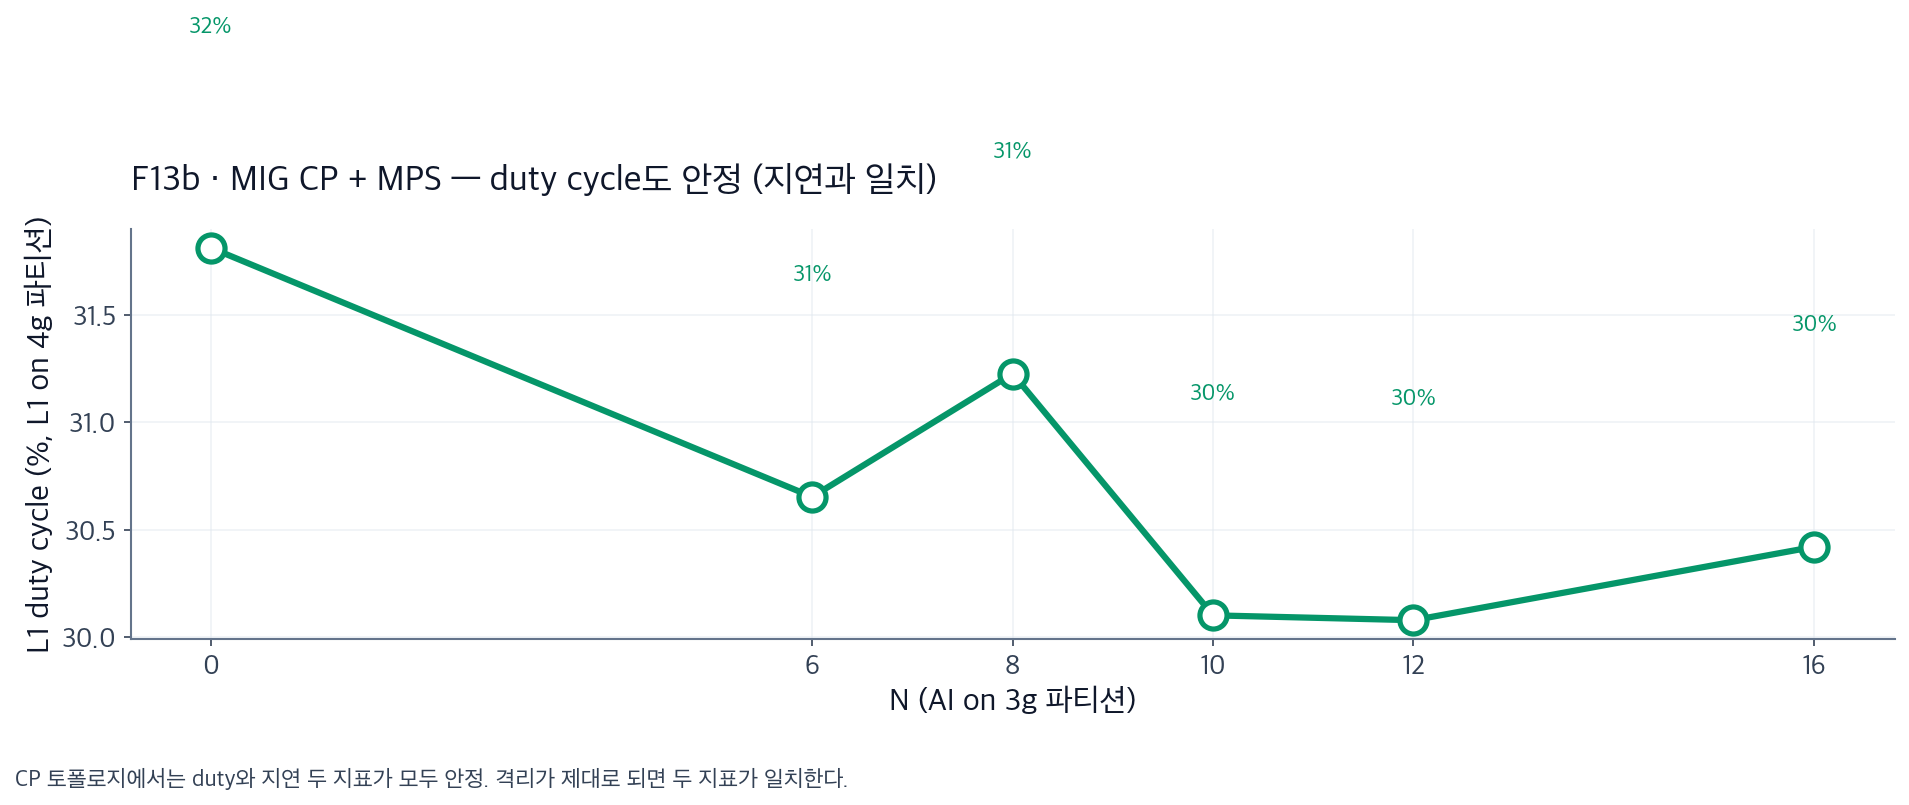
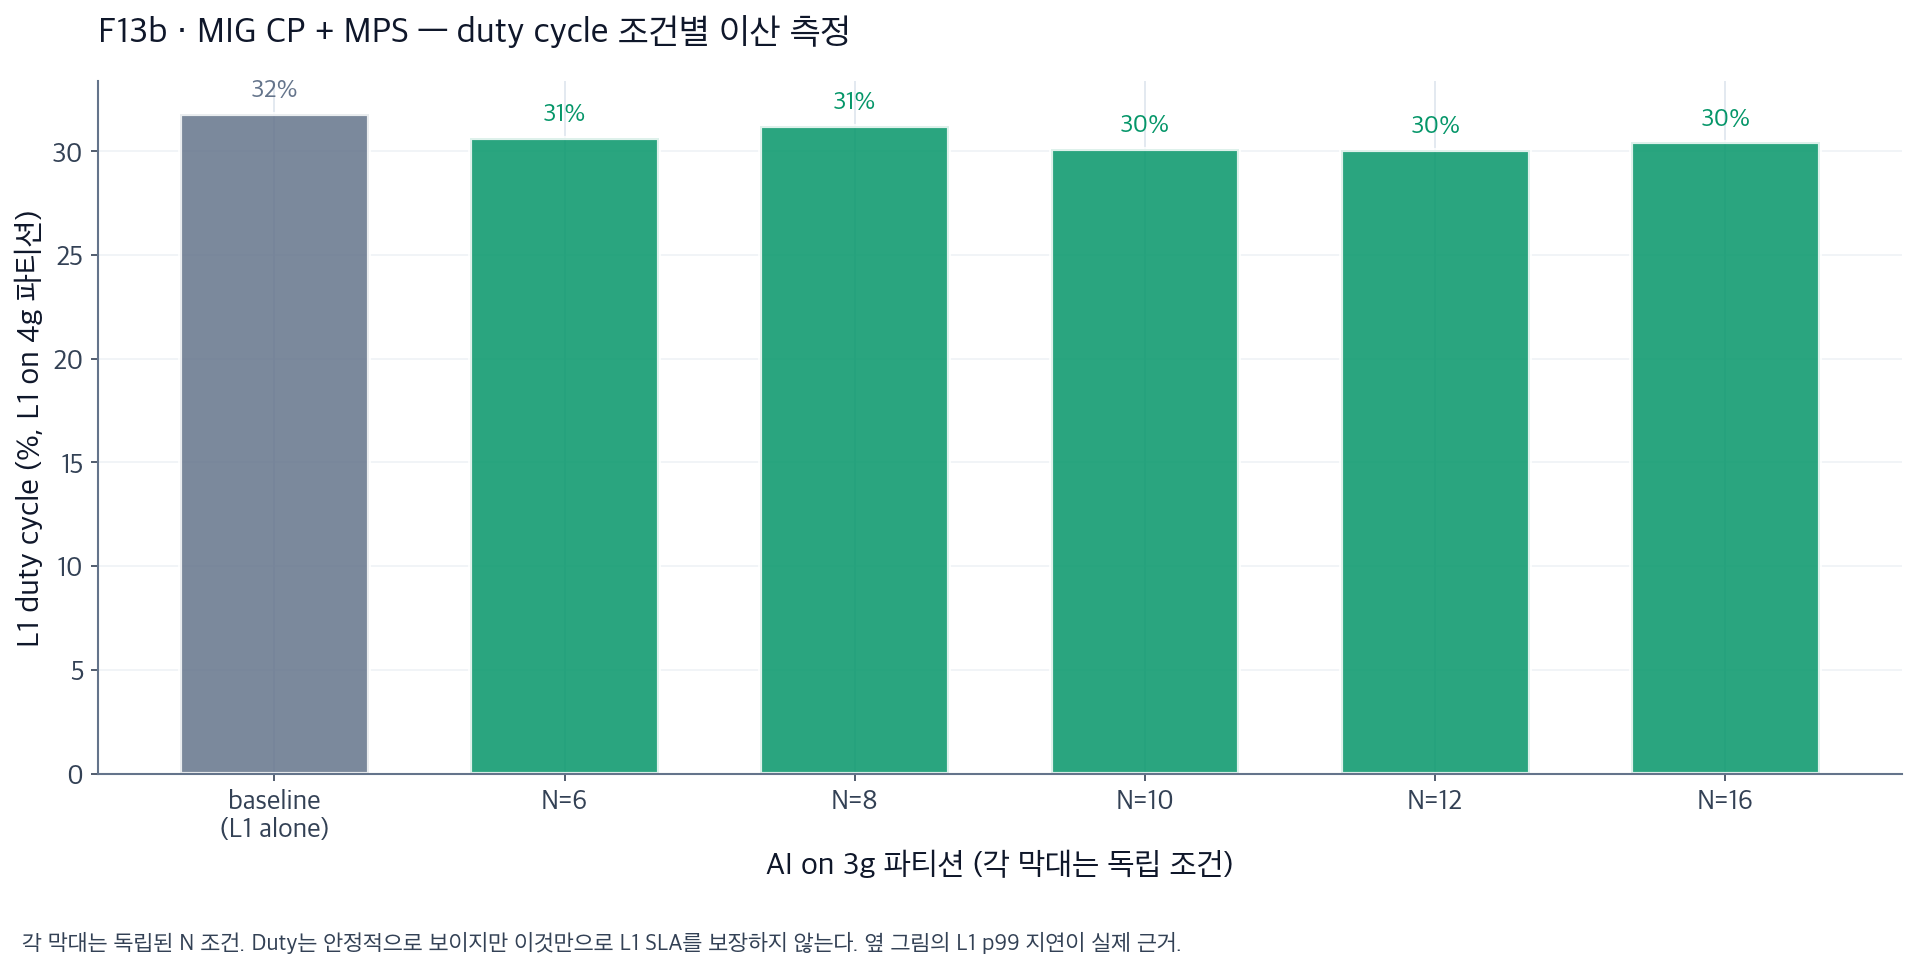
Duty pair figures: switch line → bar
Line charts made duty look like it was tracking L1 stability, which
misled the eye. Bars make each N a discrete condition — duty being
flat across bars no longer visually implies latency is safe.

diff --git a/results/20260803/analysis_chain19/gen_duty_pairs.py b/results/20260803/analysis_chain19/gen_duty_pairs.py
@@ -9,7 +9,7 @@ Pairs generated:
   F13b — MIG CP + MPS, duty cycle across N (companion to F13 latency invariance)
   F28b — Duty ranking vs latency ranking mismatch (for verdict slide 10)
 """
-import os, json, glob, re
+import os, json, glob
 import numpy as np
 import matplotlib.pyplot as plt
 
@@ -64,25 +64,27 @@ def l1_p99(cond_prefix):
 # F09b — Full GPU duty cycle (companion to F09 latency)
 # =========================
 def fig09b():
-    """Duty cycle for Full GPU + MPS on, N sweep. Should look 'healthy'."""
+    """Duty cycle for Full GPU + MPS on, N sweep — BAR chart (each N discrete)."""
     Ns = [1, 3, 6, 8, 10, 12]
     duties = [duty_mean(f"e1_cfgB_diverseN{N}") or 0 for N in Ns]
     baseline = duty_mean("e1_baseline") or 25
     fig, ax = plt.subplots(figsize=(13, 6.5))
+    xs = np.arange(len(Ns))
+    ax.bar(xs, duties, color=COL_NOMIG, alpha=0.85, edgecolor="white", linewidth=2, width=0.65)
     ax.axhline(baseline, color=INK_MUT, linestyle="--", linewidth=2, alpha=0.7)
-    ax.text(0.02, baseline+1.5, f"L1 alone duty: {baseline:.0f}%", transform=ax.get_yaxis_transform(),
-            color=INK_SEC, fontsize=11, style="italic")
-    ax.plot(Ns, duties, "o-", color=COL_NOMIG, linewidth=3, markersize=13,
-            markerfacecolor="white", markeredgewidth=2.5)
-    for N, d in zip(Ns, duties):
-        ax.text(N, d+1.5, f"{d:.0f}%", ha="center", fontsize=11, color=COL_NOMIG, fontweight="bold")
-    ax.set_xlabel("N (다이버스 AI 컨테이너)")
+    ax.text(len(Ns)-0.5, baseline+1.5, f"L1 alone baseline: {baseline:.0f}%",
+            color=INK_SEC, fontsize=11, style="italic", ha="right")
+    for i, d in enumerate(duties):
+        ax.text(i, d+1.2, f"{d:.0f}%", ha="center", fontsize=12, color=COL_NOMIG, fontweight="bold")
+    ax.set_xticks(xs); ax.set_xticklabels([f"N={n}" for n in Ns])
+    ax.set_xlabel("다이버스 AI 컨테이너 수 (각 막대는 독립 조건)")
     ax.set_ylabel("L1 duty cycle (%)")
-    ax.set_xticks(Ns); ax.grid(alpha=0.5)
-    ax.set_title("F09b · Full GPU + MPS on — duty cycle (건강해 '보이는' 지표)",
+    ax.grid(axis="y", alpha=0.5)
+    ax.set_title("F09b · Full GPU + MPS on — duty cycle (건강해 '보이는' 지표, 조건별 이산 측정)",
                  fontweight="bold", pad=18, loc="left")
     fig.text(0.02, 0.008,
-             "Duty cycle이 baseline 대비 상승 → GPU가 바쁘게 돌아간다는 뜻. 하지만 F09a를 보면 실제 L1 p99 지연은 나빠짐.",
+             "각 막대는 독립된 N 조건. Duty가 baseline 이상으로 유지 → GPU가 바쁨. "
+             "하지만 이 지표는 L1 SLA를 보장하지 않는다 (실제 지연은 옆 그림 참조).",
              fontsize=11, color=INK_SEC, style="italic")
     plt.tight_layout(rect=[0, 0.05, 1, 1])
     plt.savefig(f"{FIG}/F09b_duty_full_gpu.png"); plt.close()
@@ -92,24 +94,29 @@ def fig09b():
 # F13b — CP + MPS duty across N (companion to F13 latency invariance)
 # =========================
 def fig13b():
-    """CP + MPS duty across N. Should also be stable — both metrics agree here."""
+    """CP + MPS duty across N — BAR chart. Each N is a discrete condition."""
     Ns = [0, 6, 8, 10, 12, 16]
     duties = []
+    labels = []
     for N in Ns:
         cond = "e5_baseline" if N == 0 else f"e5_cpN{N}"
         duties.append(duty_mean(cond) or 0)
+        labels.append("baseline\n(L1 alone)" if N == 0 else f"N={N}")
     fig, ax = plt.subplots(figsize=(13, 6.5))
-    ax.plot(Ns, duties, "o-", color=COL_GOOD, linewidth=3, markersize=13,
-            markerfacecolor="white", markeredgewidth=2.5)
-    for N, d in zip(Ns, duties):
-        ax.text(N, d+1, f"{d:.0f}%", ha="center", fontsize=11, color=COL_GOOD, fontweight="bold")
-    ax.set_xlabel("N (AI on 3g 파티션)")
+    xs = np.arange(len(Ns))
+    colors = [INK_MUT] + [COL_GOOD]*(len(Ns)-1)
+    ax.bar(xs, duties, color=colors, alpha=0.85, edgecolor="white", linewidth=2, width=0.65)
+    for i, d in enumerate(duties):
+        ax.text(i, d+0.8, f"{d:.0f}%", ha="center", fontsize=12, color=colors[i], fontweight="bold")
+    ax.set_xticks(xs); ax.set_xticklabels(labels)
+    ax.set_xlabel("AI on 3g 파티션 (각 막대는 독립 조건)")
     ax.set_ylabel("L1 duty cycle (%, L1 on 4g 파티션)")
-    ax.set_xticks(Ns); ax.grid(alpha=0.5)
-    ax.set_title("F13b · MIG CP + MPS — duty cycle도 안정 (지연과 일치)",
+    ax.grid(axis="y", alpha=0.5)
+    ax.set_title("F13b · MIG CP + MPS — duty cycle 조건별 이산 측정",
                  fontweight="bold", pad=18, loc="left")
     fig.text(0.02, 0.008,
-             "CP 토폴로지에서는 duty와 지연 두 지표가 모두 안정. 격리가 제대로 되면 두 지표가 일치한다.",
+             "각 막대는 독립된 N 조건. Duty는 안정적으로 보이지만 이것만으로 L1 SLA를 보장하지 않는다. "
+             "옆 그림의 L1 p99 지연이 실제 근거.",
              fontsize=11, color=INK_SEC, style="italic")
     plt.tight_layout(rect=[0, 0.05, 1, 1])
     plt.savefig(f"{FIG}/F13b_duty_cp.png"); plt.close()
